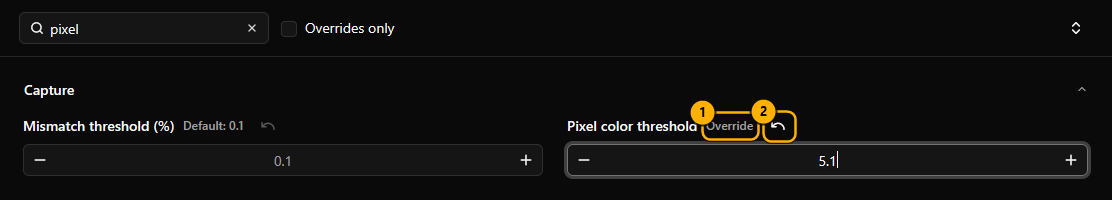
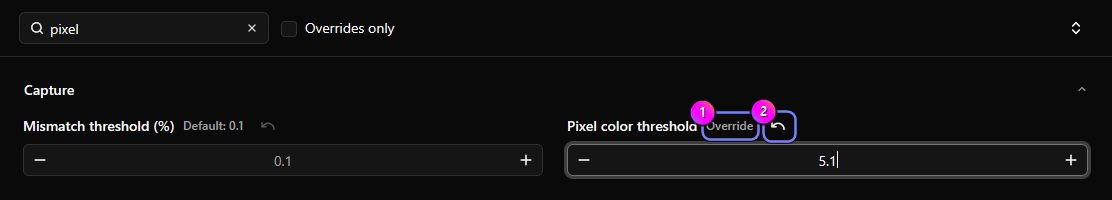
feat: update document

Changed region(s): [[0.6115, 0.48, 0.7338, 0.72]]

diff --git a/website/src/styles/global.css b/website/src/styles/global.css
@@ -147,6 +147,14 @@ html:not(.js) .requires-js {
   line-height: 1.7;
 }
 
+/* On tablets and phones the column is already narrow; drop the measure cap so
+   text and screenshots use the full container width. */
+@media (max-width: 768px) {
+  .prose {
+    max-width: none;
+  }
+}
+
 .prose > * + * {
   margin-top: var(--space-lg);
 }

diff --git a/website/src/config/site.ts b/website/src/config/site.ts
@@ -21,7 +21,7 @@ export const SITE = {
 export const DOWNLOAD_PAGE_PATH = '/download/';
 
 export const NAV_LINKS = [
-  // { href: '/docs/', label: 'Docs' },
+  { href: '/docs/', label: 'Docs' },
   // { href: '/blog/', label: 'Blog' },
   { href: '/download/', label: 'Download' },
 ] as const;

diff --git a/website/README.md b/website/README.md
@@ -75,7 +75,7 @@ The getting-started doc, the landing page quickstart, and the download page's bu
 
 Screenshots in the desktop guide live in [src/assets/docs/desktop](src/assets/docs/desktop) and are referenced from Markdown with relative paths, so Astro converts them to WebP with fixed dimensions. Readers can click any image to open it full screen ([ImageZoom](src/components/ImageZoom.astro)). They are dark-theme window captures (1440x900 before cropping) of a release build (`cargo build --release --features gui --bin regressify-desktop`) opened on a throwaway fictional workspace ("northwind-qa", served from `127.0.0.1`).
 
-Annotations are baked into the PNGs: an amber ring around each control the text mentions and a numbered badge matching the step's circled number (①, ②, …). Amber keeps them distinct from the app's magenta diff pixels and red failure states. Ring positions came from each control's Windows UI Automation bounding box, looked up by accessible name, so they line up with the real controls. When you change a step's numbering, recapture or re-annotate the image so the badges still match.
+Annotations are baked into the PNGs: a brand-violet (`#7a7efa`) ring around each control the text mentions and a numbered badge, filled with the brand gradient, matching the step's circled number (①, ②, …). Rings stay violet rather than gradient because the gradient's magenta would blend into the app's magenta diff pixels. Ring positions came from each control's Windows UI Automation bounding box, looked up by accessible name, so they line up with the real controls. When you change a step's numbering, recapture or re-annotate the image so the badges still match.
 
 To recapture:
 

diff --git a/website/src/content/docs/desktop-app.md b/website/src/content/docs/desktop-app.md
@@ -488,6 +488,21 @@ In the Source editor:
 
 ## Troubleshooting
 
+**Windows or macOS says it can't verify the app.** Regressify isn't code-signed yet, so the operating system can't
+confirm who published it. First check that the file's SHA-256 matches the one on the [download page](/download/)
+(**Archives & checksums**). The install scripts check this for you. Then:
+
+- **Windows** ("Windows protected your PC"): click **More info**, then **Run anyway**. The PowerShell install command
+  usually doesn't trigger this warning.
+- **macOS** ("Apple could not verify … is free of malware"): click **Done**, open **System Settings** > **Privacy &
+  Security**, scroll to **Security**, click **Open Anyway** next to the blocked file, and confirm with your password.
+  Do this once for `regressify` and once for `regressify-desktop`. Or clear the download flag in Terminal:
+  `xattr -d com.apple.quarantine regressify regressify-desktop`. The `curl` install command usually doesn't trigger
+  this warning.
+
+On a company-managed computer, **Run anyway** or **Open Anyway** may be missing. Ask your IT team to allow Regressify
+instead of turning off SmartScreen or Gatekeeper.
+
 **Run Test is disabled.** Select a suite and run **Run Reference** first.
 
 **`regressify` isn't found.** Open a new terminal, or restart VS Code or Windows Terminal.
